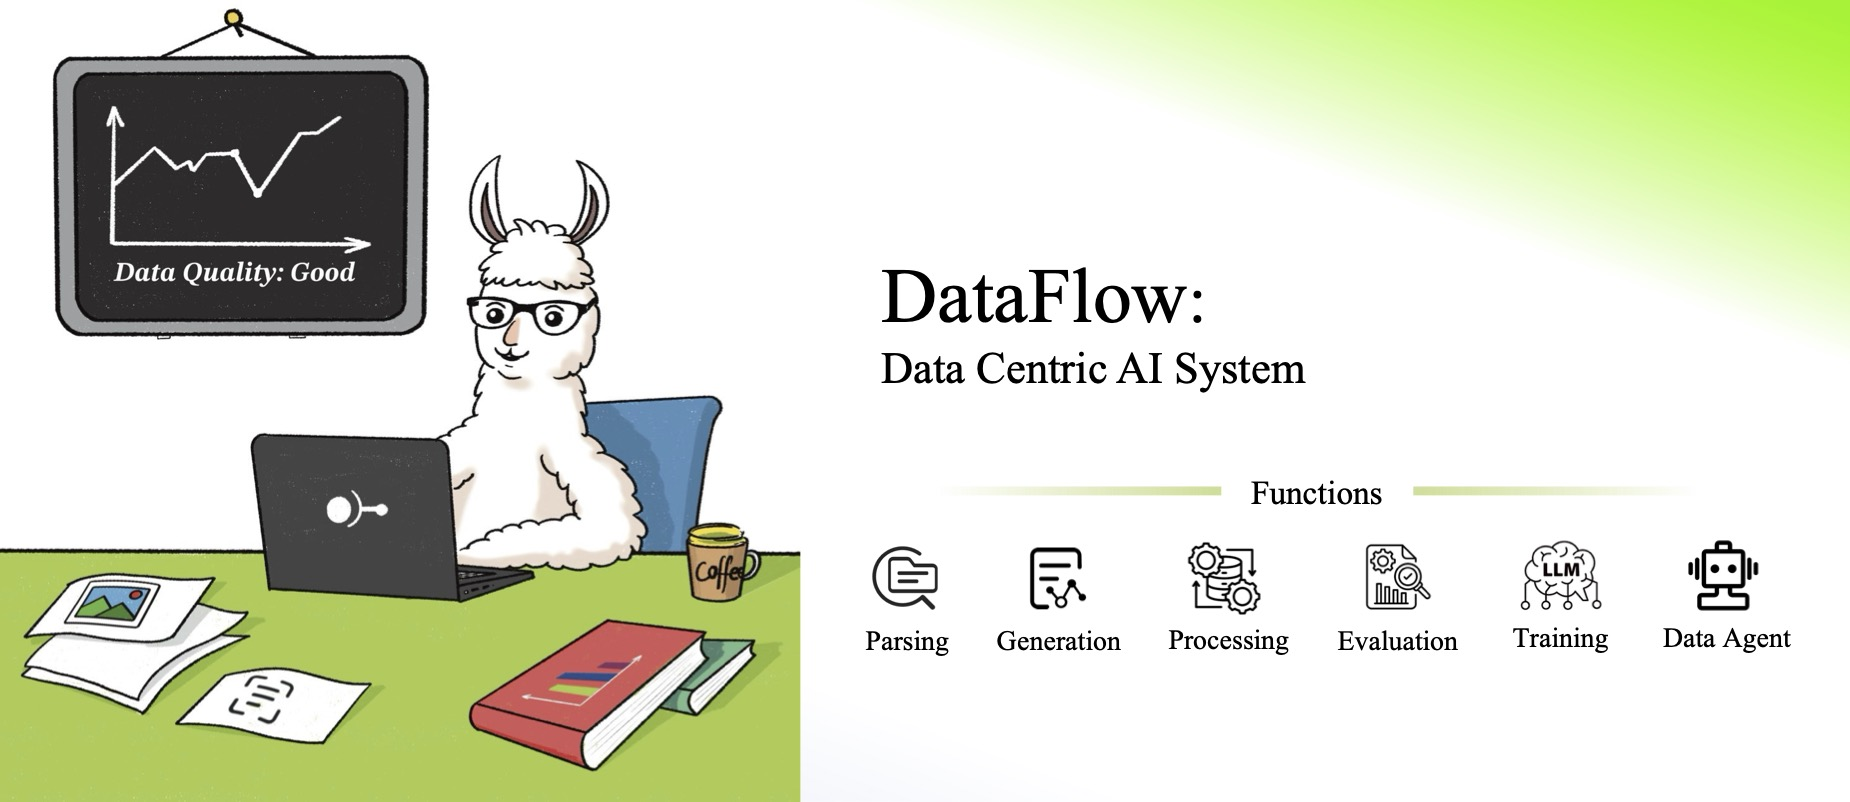
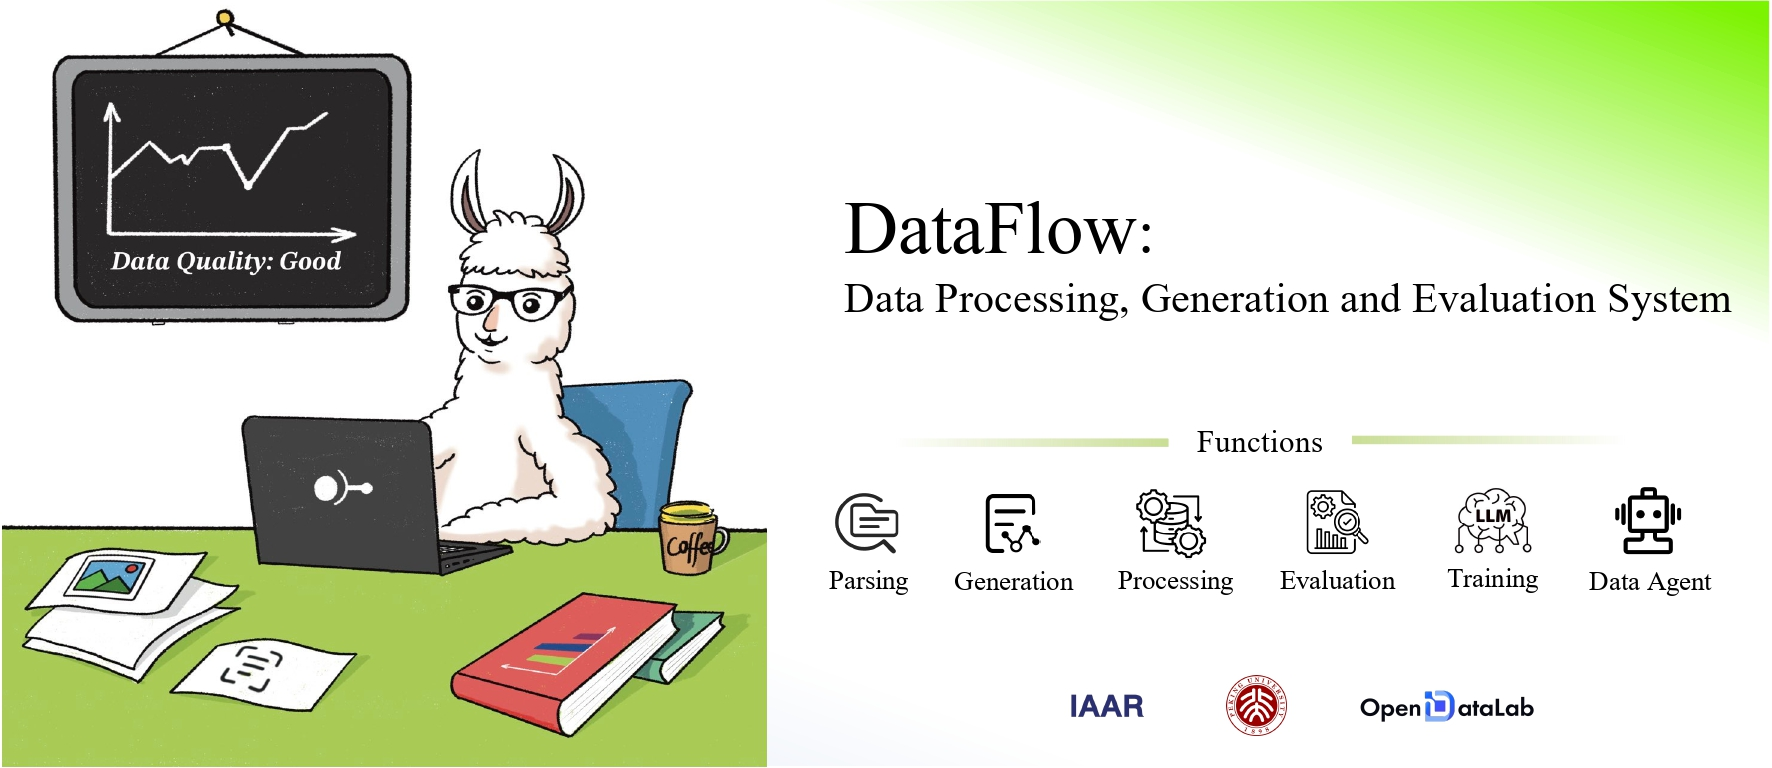
change face and add acknowledgements (#68)
* Delete static/images/Face.jpg

* Add files via upload

* Update README.md

* Update README-zh.md

diff --git a/README.md b/README.md
@@ -139,7 +139,10 @@ We fine-tuned the Qwen2.5-Coder-14B model on the Bird dataset using both Supervi
   <img src="./static/images/text2sql.png" width="60%">
 </div>
 
-## 🤝 6. Community & Support
+## 💐 6. Acknowledgements
+We sincerely appreciate [MinerU](https://github.com/opendatalab/MinerU)'s outstanding contribution, particularly its robust text extraction capabilities from PDFs and documents, which greatly facilitates data loading.
+
+## 🤝 7. Community & Support
 Join the DataFlow open-source community to ask questions, share ideas, and collaborate with other developers!
 
 •	📮 [GitHub Issues](../../issues): Report bugs or suggest features
@@ -152,7 +155,7 @@ Join the DataFlow open-source community to ask questions, share ideas, and colla
   <img src="./static/images/community_en.jpg" width="60%">
 </div>
 
-## 📜 7. Citation
+## 📜 8. Citation
 If you use DataFlow in your research, feel free to give us a cite.
 ```bibtex
 @misc{dataflow2025,
@@ -164,7 +167,7 @@ If you use DataFlow in your research, feel free to give us a cite.
 }
 ```
 
-## 📊 8. Statistics
+## 📊 9. Statistics
 <div align="center">
   <a href="https://star-history.com/#OpenDCAI/DataFlow&Date">
     <picture>
@@ -179,8 +182,8 @@ If you use DataFlow in your research, feel free to give us a cite.
 ---
 <div align="center">
   <sub>
-    Developed and maintained by the 
-    <a href="https://zwt233.github.io/" target="_blank"><strong>PKU-DCAI Research Team</strong></a> ❤ <br>
-    Connect with us on Xiaohongshu: <strong>26133106768</strong>
+    Connect with the 
+    <a href="https://zwt233.github.io/" target="_blank"><strong>PKU-DCAI Research Team</strong></a> 
+    on Xiaohongshu: <strong>26133106768</strong>
   </sub>
 </div>

diff --git a/README-zh.md b/README-zh.md
@@ -139,7 +139,10 @@ You are using the latest version: 1.0.0.
   <img src="./static/images/text2sql.png" width="60%">
 </div>
 
-## 🤝 6. 社区与支持
+## 💐 6. 致谢
+我们衷心感谢 [MinerU](https://github.com/opendatalab/MinerU) 的卓越工作，其强大的 PDF/文档文本提取功能为数据加载提供了关键支持。
+
+## 🤝 7. 社区与支持
 
 欢迎加入 DataFlow 开源社区，提出问题、分享想法、与其他开发者一起共建项目！
 
@@ -153,7 +156,7 @@ You are using the latest version: 1.0.0.
   <img src="./static/images/community_ch.jpg" width="60%">
 </div>
 
-## 📜 7. 引用
+## 📜 8. 引用
 
 如果 DataFlow 对你的研究或项目有帮助，欢迎引用支持我们：
 
@@ -167,7 +170,7 @@ You are using the latest version: 1.0.0.
 }
 ```
 
-## 📊 8. 统计信息
+## 📊 9. 统计信息
 <div align="center">
   <a href="https://star-history.com/#OpenDCAI/DataFlow&Date">
     <picture>
@@ -183,8 +186,7 @@ You are using the latest version: 1.0.0.
 
 <div align="center">
   <sub>
-    由  
-    <a href="https://zwt233.github.io/" target="_blank"><strong>PKU-DCAI 研究团队</strong></a> ❤ 开发与维护 <br>
-    欢迎关注课题组小红书账号：<strong>26133106768</strong>
+    想了解更多？欢迎关注我们
+    <a href="https://zwt233.github.io/" target="_blank"><strong>PKU-DCAI 课题组</strong></a>，小红书账号：<strong>26133106768</strong>
   </sub>
 </div>
